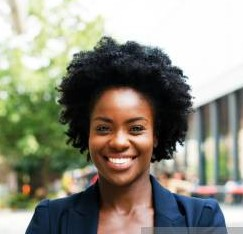
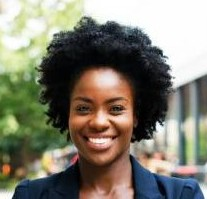
Style[Testimonials] Complete styling

diff --git a/src/components/Home/Home.js b/src/components/Home/Home.js
@@ -3,8 +3,8 @@ import { Link } from 'react-router-dom';
 import './Home.css';
 import welcomeImg from '../../img/dark-female-doctor.png';
 import signature from '../../img/signature.png';
-import testImg1 from '../../img/rev-img-1.jpeg';
-import testImg2 from '../../img/rev-img-2.jpeg';
+import testImg1 from '../../img/rev-img-1.jpg';
+import testImg2 from '../../img/rev-img-2.jpg';
 import testImg3 from '../../img/rev-img-3.jpg';
 
 function Home() {
@@ -149,7 +149,7 @@ function Home() {
           </Link>
         </div>
       </div>
-      <div className='home-testimnials-container'>
+      <div className='home-testimonials-container'>
         <div className='home-testimonials'>
           <h1>What Our Patients Say</h1>
           <br />
@@ -161,16 +161,16 @@ function Home() {
         </div>
         <div className='home-testimonial-cards'>
           <div className='home-testimonial-card'>
-            <img src={testImg1} alt='Test' />
+            <img src={testImg1} alt='Test' /><br />
             <p>
               Kind, friendly staff from the minute we walked in, felt very safe
               in their hands as nurses were always on hand and checking on me.
             </p>
-            <h4>OSCAR BARAKA</h4>
+            <h4>KENDRIC MAINA</h4>
             <h5>PHOTOGRAPHER</h5>
           </div>
           <div className='home-testimonial-card'>
-            <img src={testImg3} alt='Test' />
+            <img src={testImg3} alt='Test' /><br />
             <p>
               Kind, friendly staff from the minute we walked in, felt very safe
               in their hands as nurses were always on hand and checking on me.
@@ -179,12 +179,12 @@ function Home() {
             <h5>GRAPHIC DESIGNER</h5>
           </div>
           <div className='home-testimonial-card'>
-            <img src={testImg2} alt='Test' />
+            <img src={testImg2} alt='Test' /><br />
             <p>
               Kind, friendly staff from the minute we walked in, felt very safe
               in their hands as nurses were always on hand and checking on me.
             </p>
-            <h4>WALTER YONGO</h4>
+            <h4>SHINSKI</h4>
             <h5>AI EXPERT</h5>
           </div>
         </div>

diff --git a/src/components/Home/Home.css b/src/components/Home/Home.css
@@ -84,6 +84,11 @@
 .home-solution h1 {
   font-size: 36px;
 }
+.home-solution p {
+  font-size: 20px;
+  line-height: 30px;
+  font-weight: 400;
+}
 .home-solution-cards {
   display: flex;
   justify-content: space-evenly;
@@ -133,7 +138,7 @@
   width: 45%;
 }
 .home-practices p {
-   font-size: 20px;
+  font-size: 20px;
   line-height: 30px;
   font-weight: 500;
   padding-top: 10px;
@@ -154,7 +159,51 @@
   color: #1d3e68;
   transition: all 0.35s ease-in-out;
 }
-
-
 /* == HOME PRACTICES == */
+/* == HOME TESTIMONIALS == */
+.home-testimonials-container {
+  background-color: #f8f9fb;
+  padding: 100px 0;
+  display: flex;
+  flex-direction: column;
+  width: 100%;
+  align-items: center;
+  text-align: center;
+}
+.home-testimonials {
+  width: 75%;
+  margin-bottom: 80px;
+}
+.home-testimonials h1 {
+  font-size: 36px;
+}
+.home-testimonials p {
+  font-size: 20px;
+  line-height: 30px;
+  font-weight: 400;
+}
+.home-testimonial-cards {
+  display: flex;
+  width: 85%;
+  justify-content: space-evenly;
+}
+.home-testimonial-card {
+  width: 25%;
+  background-color: white;
+  display: flex;
+  flex-direction: column;
+  align-items: center;
+  box-shadow: rgba(0, 0, 0, 0.05) 0px 6px 24px 0px,
+    rgba(0, 0, 0, 0.08) 0px 0px 0px 1px;
+  padding: 40px 50px;
+  border-radius: 10px;
+}
+.home-testimonial-card img {
+  width: 50%;
+  border-radius: 50%;
+}
+.home-testimonial-card p {
+margin-bottom: 10px;
+}
+/* == HOME TESTIMONIALS == */
 /* ==== HOME COMPONENT ==== */
